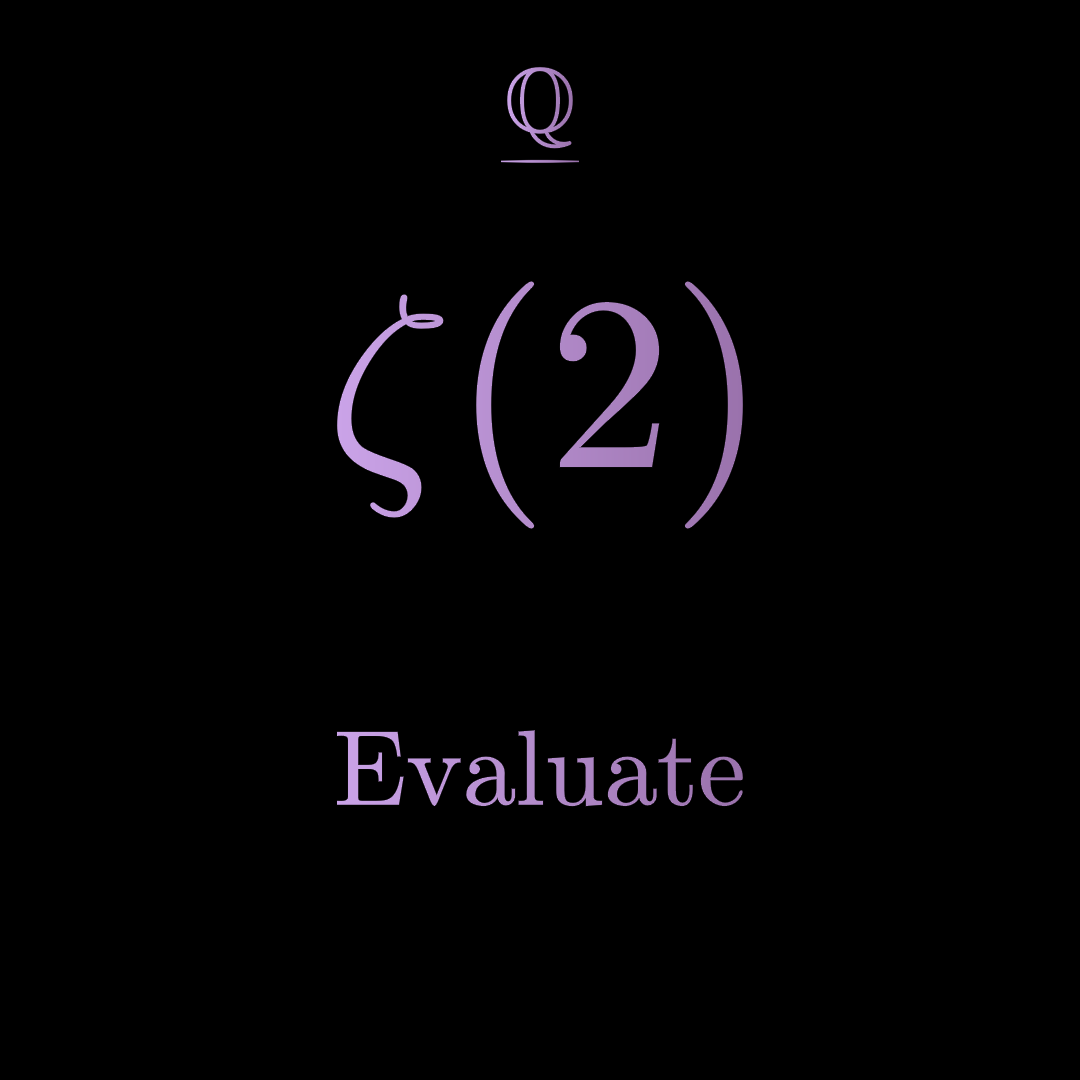
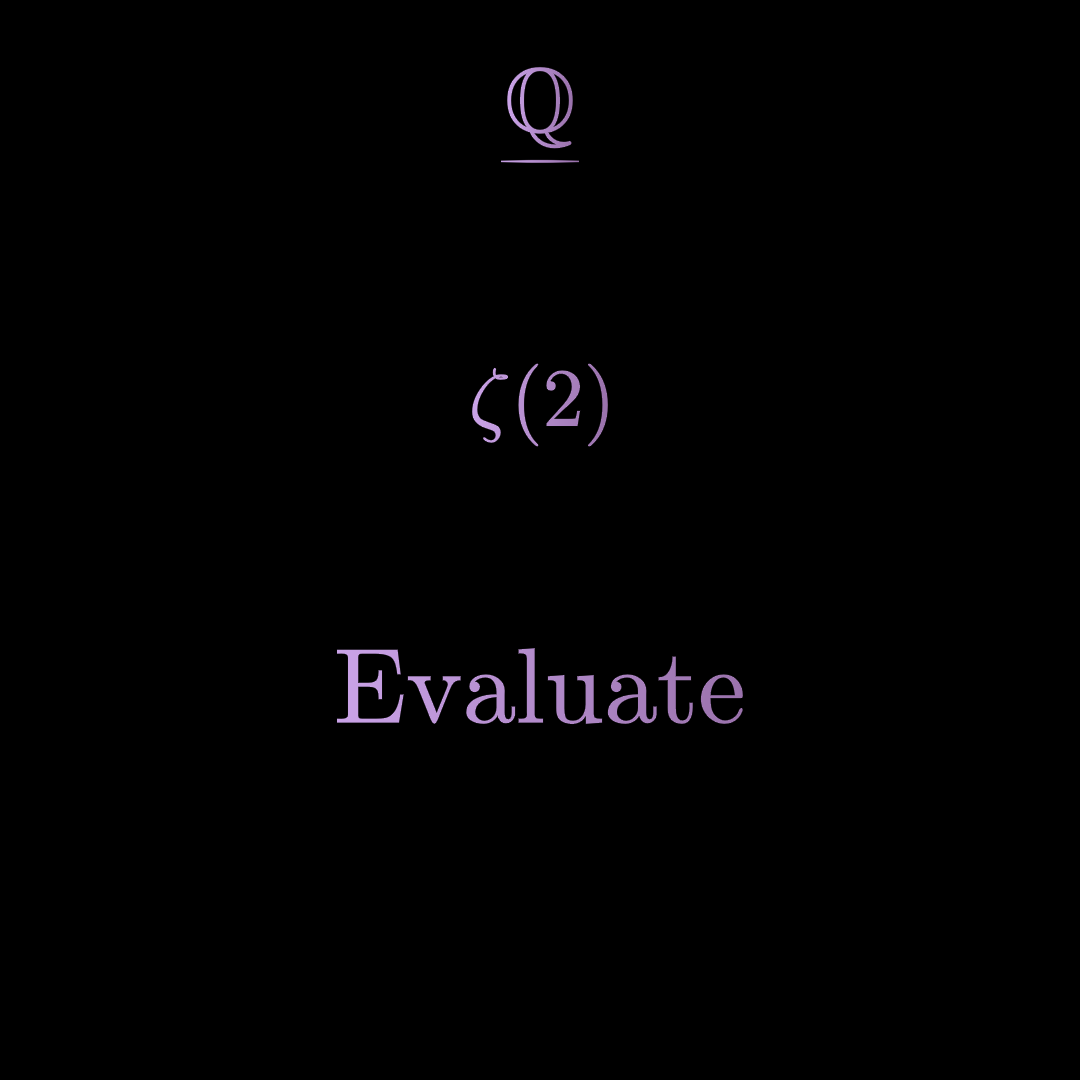
f

diff --git a/char.py b/char.py
@@ -500,7 +500,7 @@ class Q(InteractiveScene):
         problem = Tex(R"\zeta(2)")
         problem.set_color(color)
         problem.shift(UP)
-        problem.set_width(FRAME_WIDTH - 5)
+        problem.set_width(FRAME_WIDTH - 7)
         self.add(problem)
 
         solve = TexText("Evaluate")
